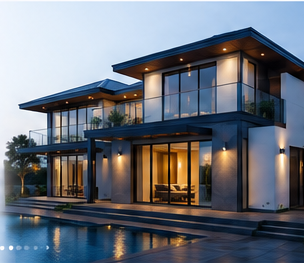
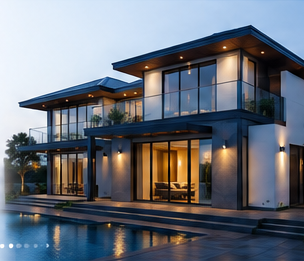
today completed

diff --git a/src/components/Banner.tsx b/src/components/Banner.tsx
@@ -6,7 +6,7 @@ import { HiChevronLeft, HiChevronRight, HiMagnifyingGlass } from "react-icons/hi
 const Banner = () => {
   return (
     <section className="max-w-7xl mx-auto relative overflow-hidden bg-gradient-to-r from-slate-50 to-blue-100">
-      <div className="mx-auto grid min-h-[650px] max-w-7xl items-center gap-10 px-6 py-10 lg:grid-cols-2">
+      <div className="mx-auto grid min-h-[600px] max-w-7xl items-center gap-10 pl-6 pt-10 lg:grid-cols-2">
         {/* Left Content */}
         <div className="z-10">
           <h1 className="text-5xl font-extrabold leading-tight text-slate-900 lg:text-7xl">
@@ -37,7 +37,7 @@ const Banner = () => {
           </div>
 
           <p className="mt-5 text-sm text-gray-500">
-            Trusted by 10,000+ happy customers
+            Trusted by 10,000+ happy customers 
           </p>
         </div>
 
@@ -48,7 +48,7 @@ const Banner = () => {
             alt="Luxury House"
             fill
             priority
-            className="rounded-2xl object-cover"
+            className="object-cover"
           />
         </div>
       </div>